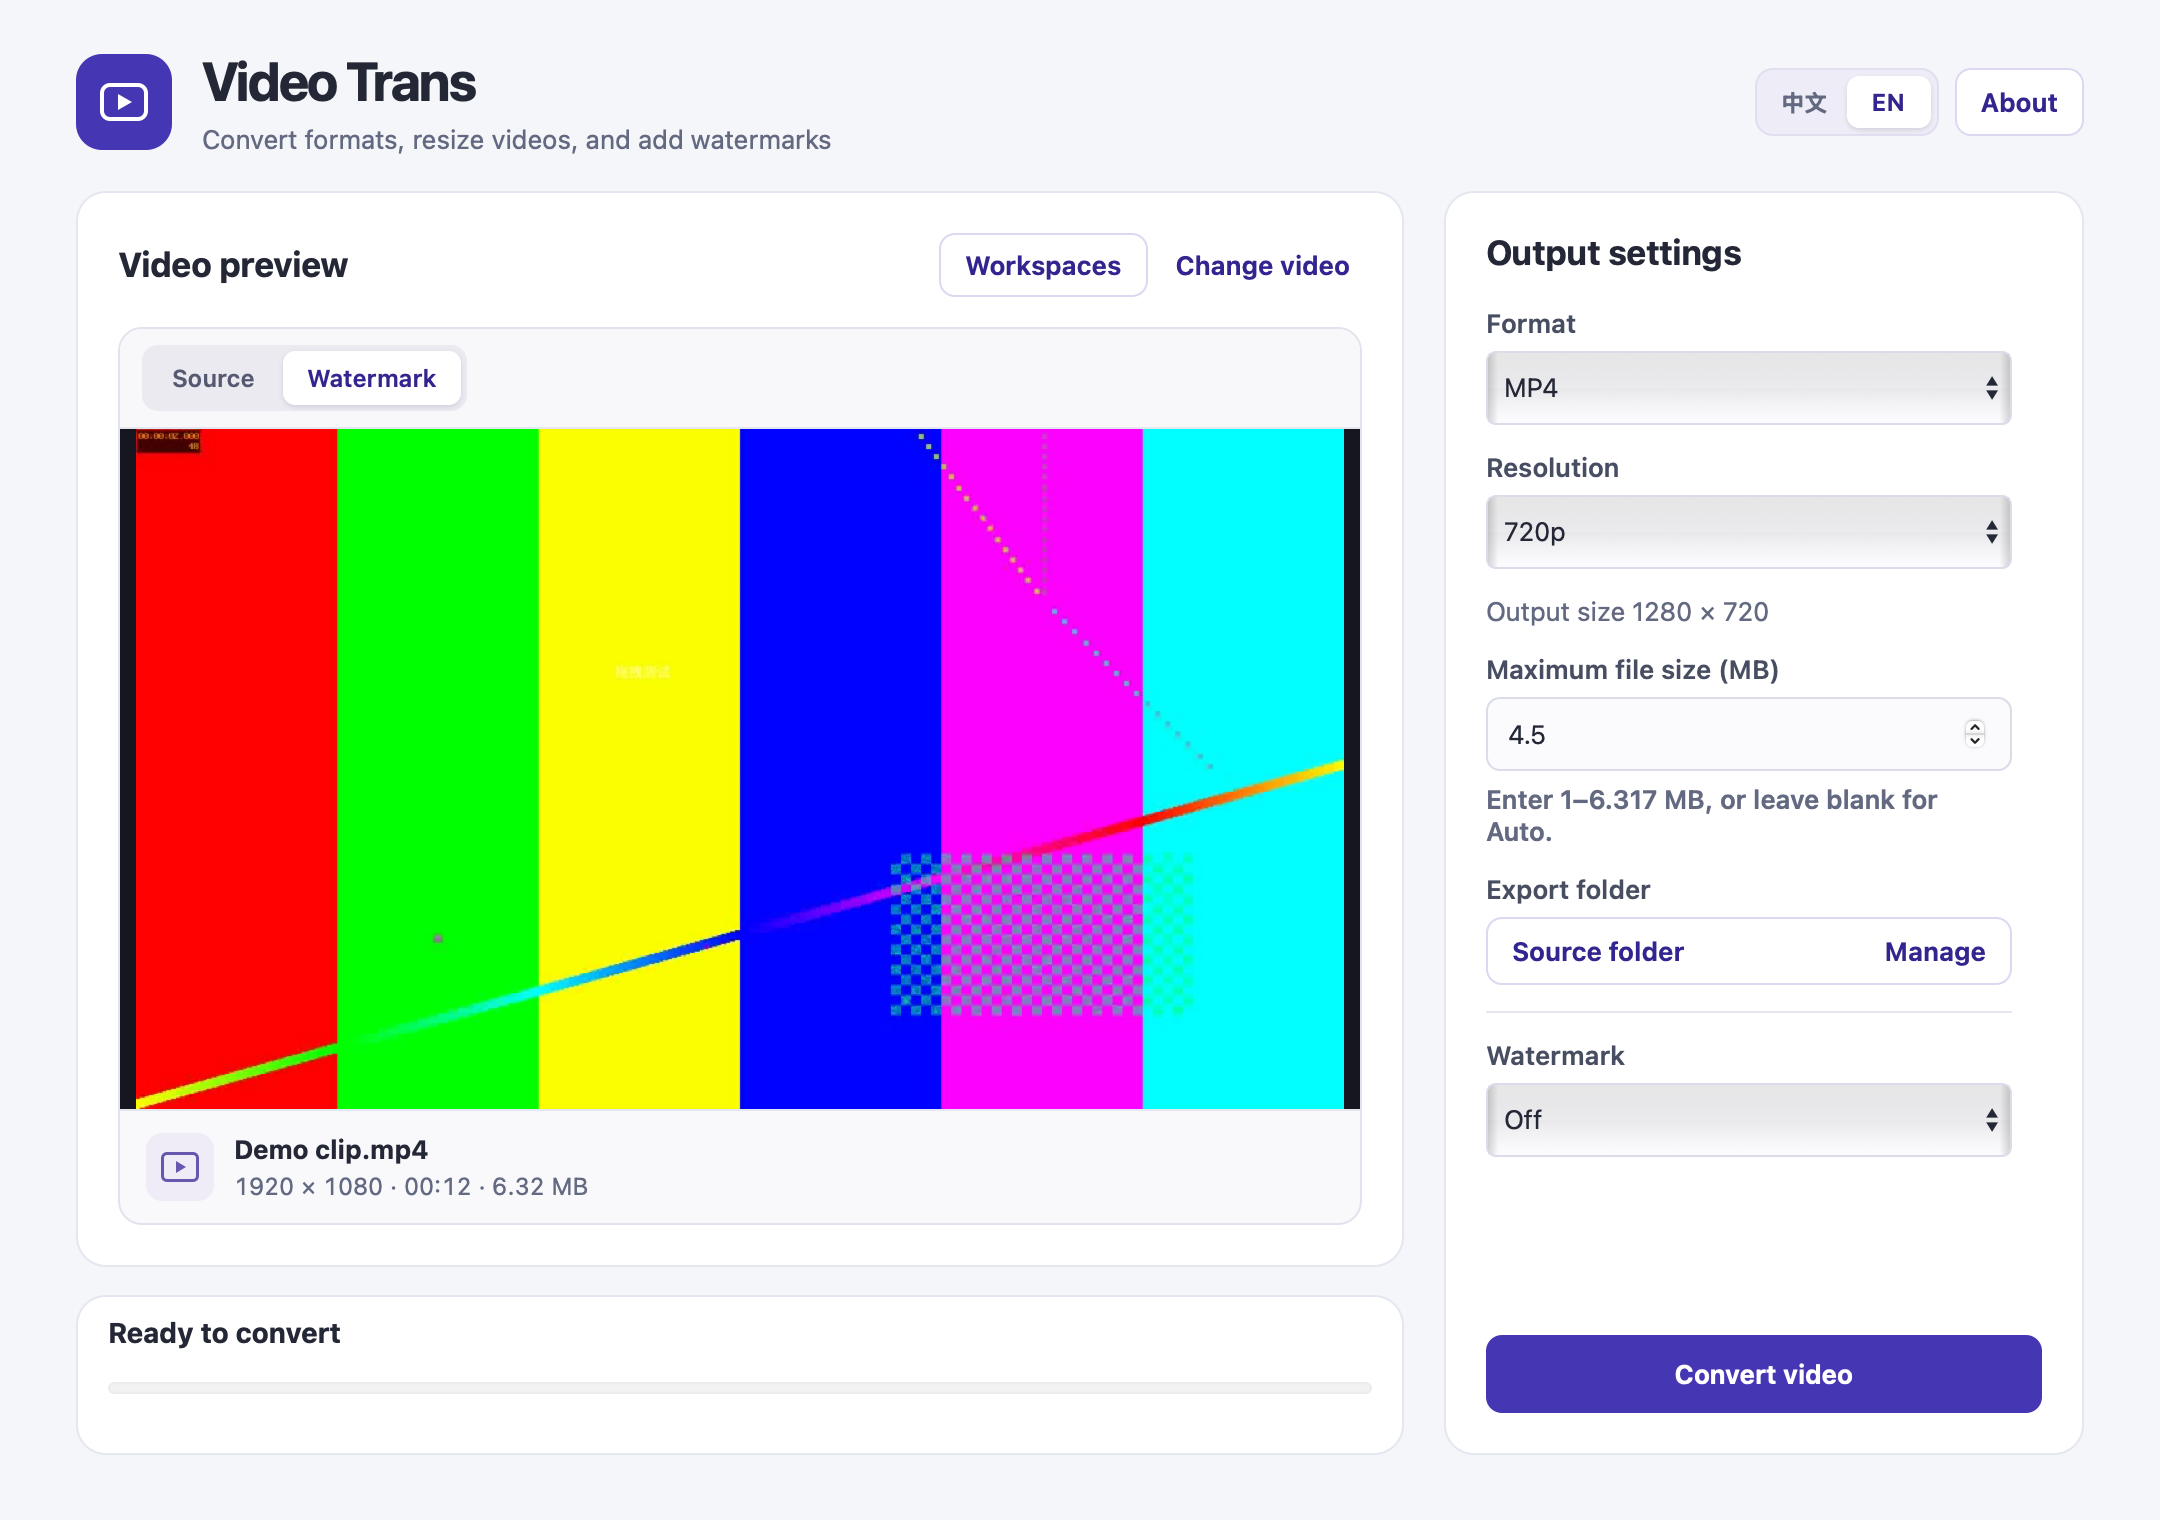
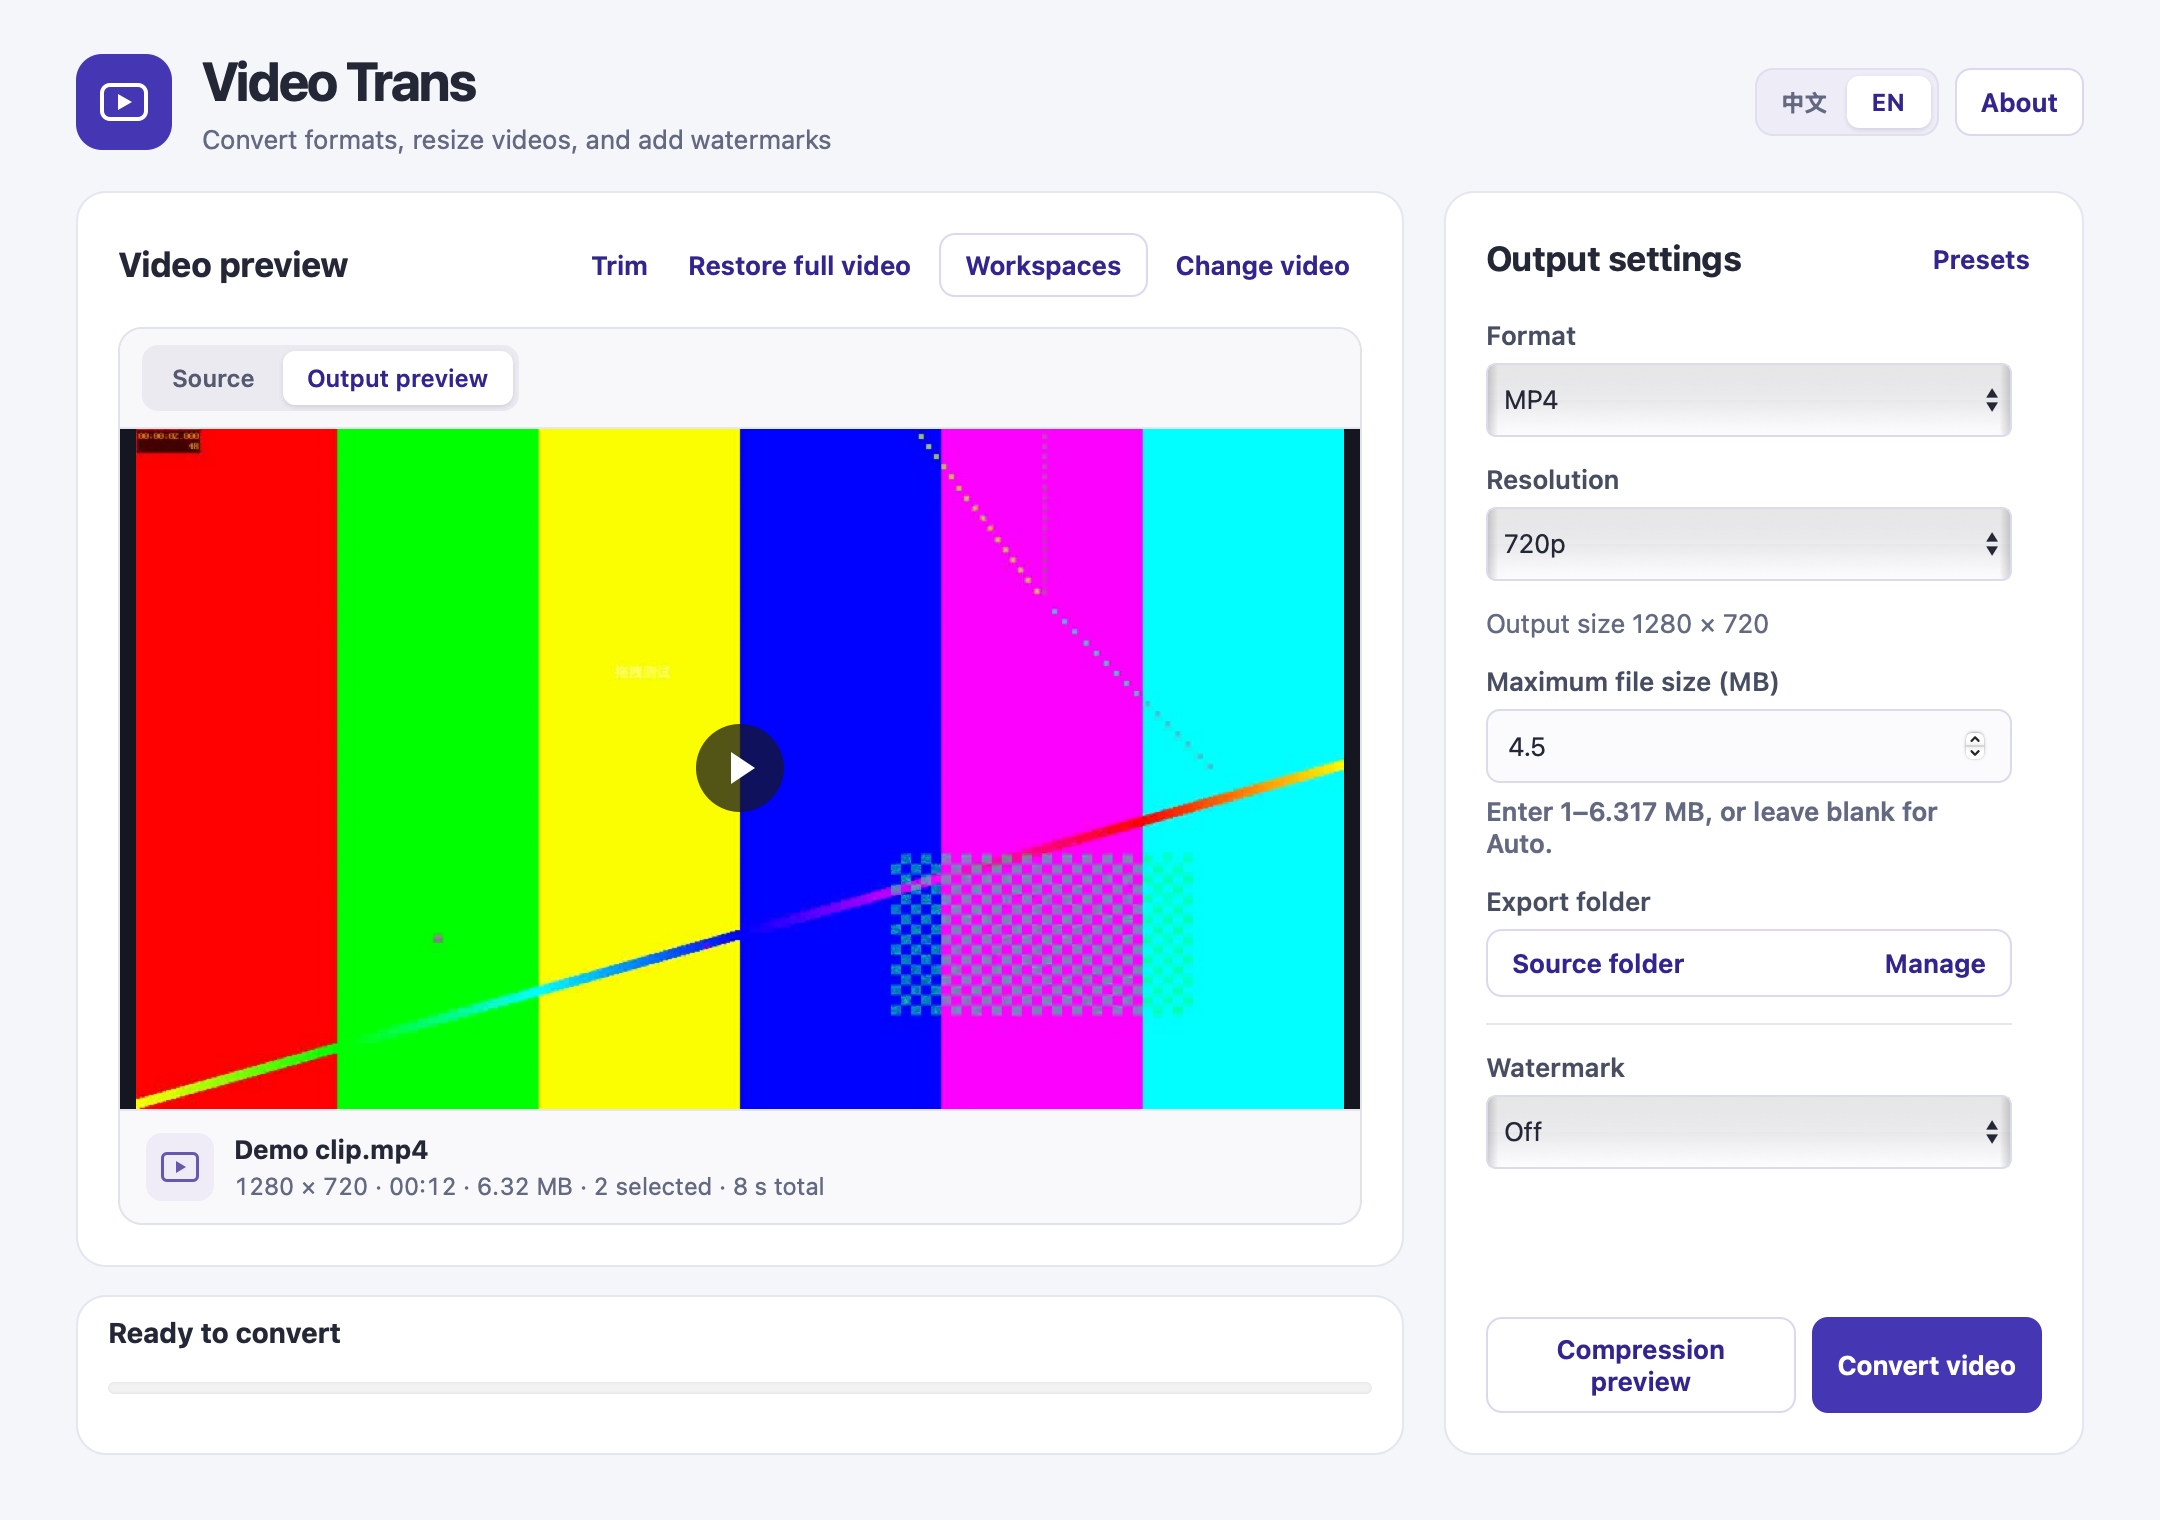
Refresh bilingual README screenshots for v0.3.4

diff --git a/AGENTS.md b/AGENTS.md
@@ -1,0 +1,5 @@
+# 推送前更新 README 截图
+
+每次推送前，用即将推送的版本重新截取简体中文和英文界面。打开同一个演示视频并选择相同的设置，避免截图包含私人文件名、路径或通知。
+
+覆盖 `docs/screenshots/video-trans-zh.png` 和 `docs/screenshots/video-trans-en.png`，打开两张截图确认语言、布局和当前功能正确，再把它们随本次改动提交并推送。
